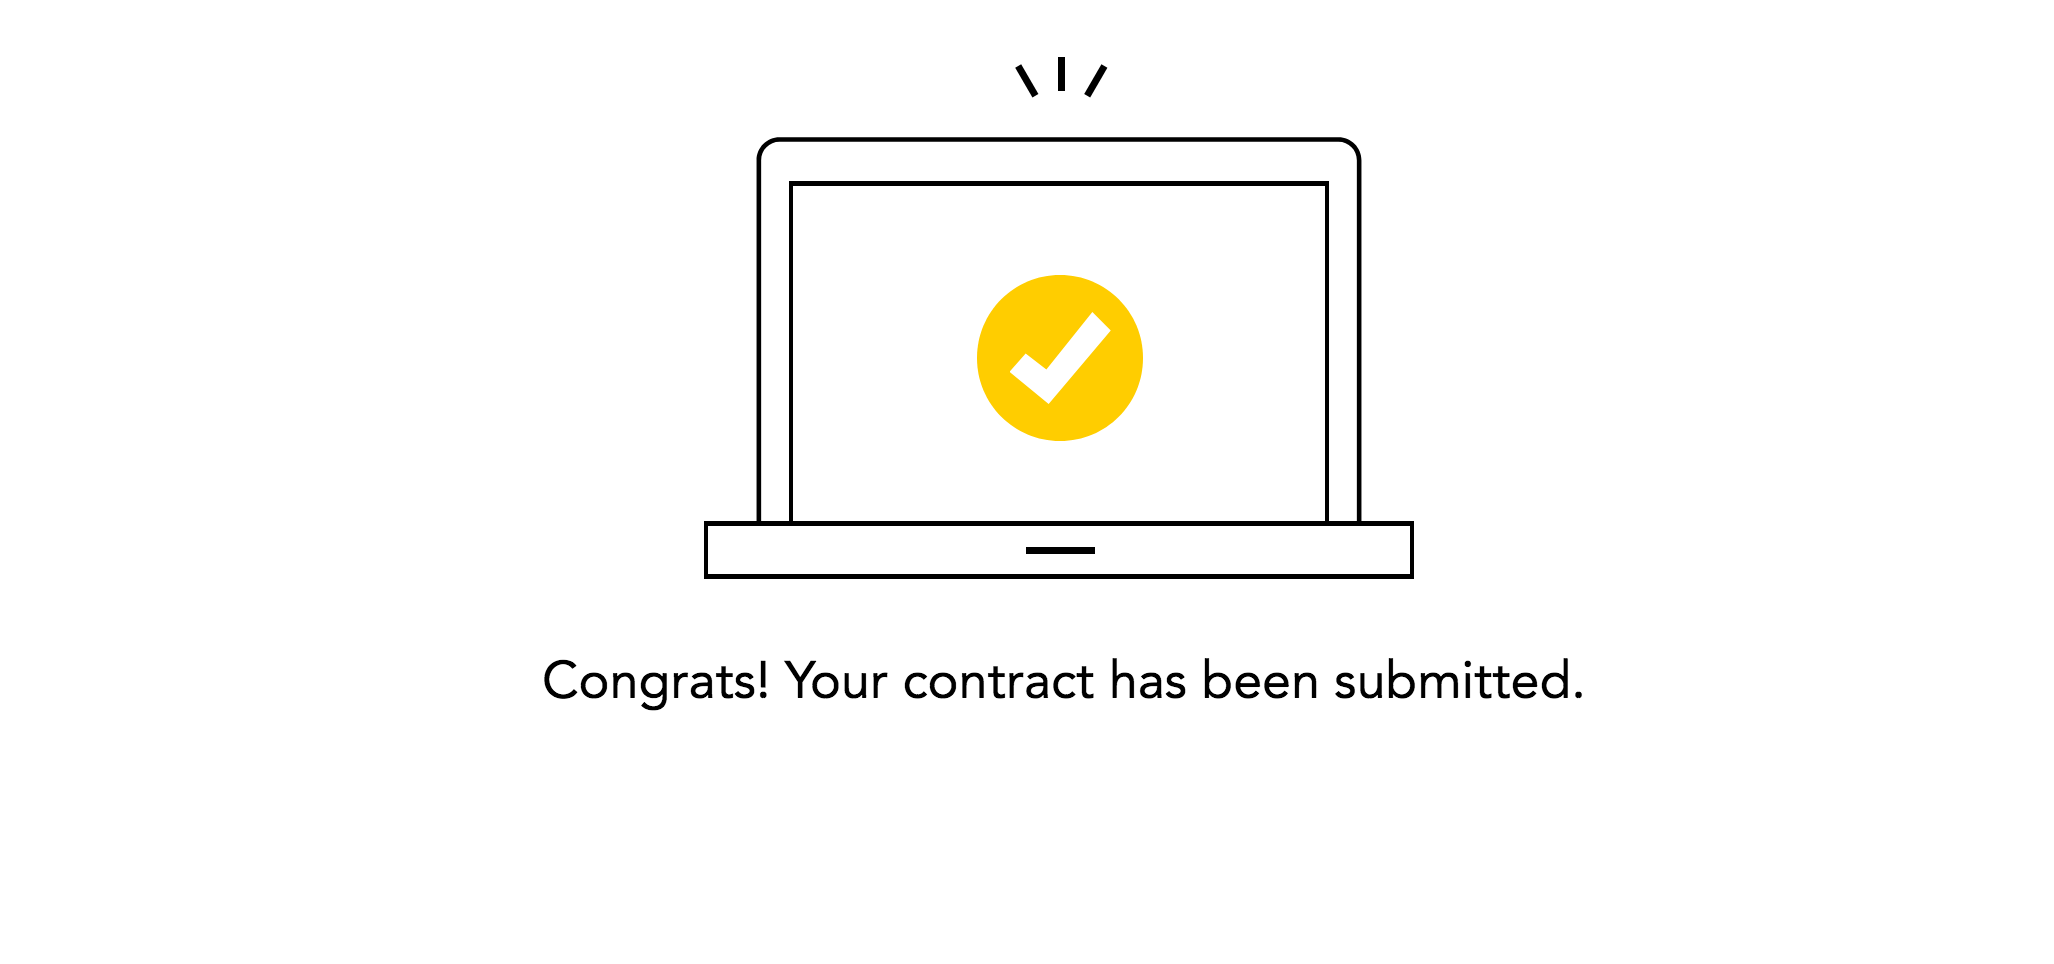
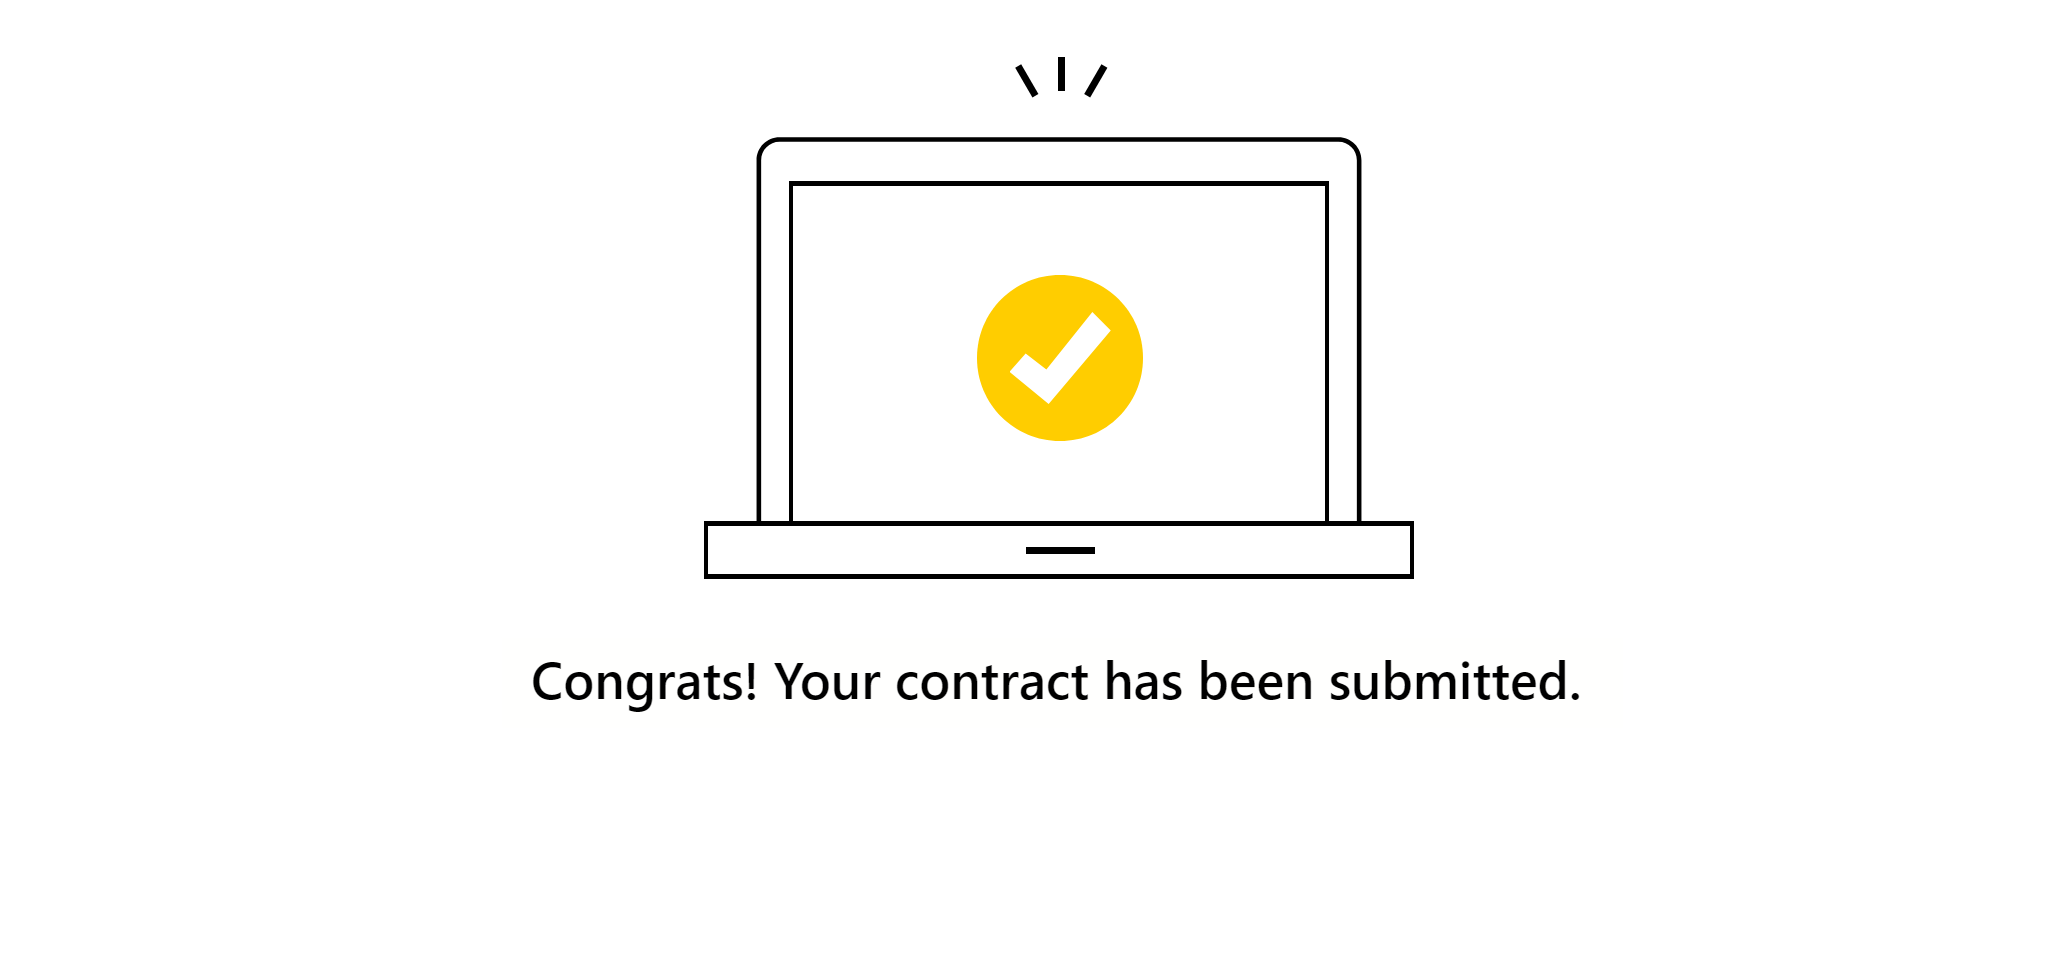
add review submit page

Changed region(s): [[0.2493, 0.6846, 0.779, 0.7469]]

diff --git a/src/components/contract/Contract.jsx b/src/components/contract/Contract.jsx
@@ -64,7 +64,6 @@ class Contract extends Component {
 
     componentDidMount() {
         this._fetchContract();
-        this._fetchNotes();
 
         const { match: { params } } = this.props;
         this.setState({contractId: params.id});
@@ -91,7 +90,7 @@ class Contract extends Component {
                             contract: response,
                             query
                         }
-                    })
+                    }, () => this._fetchNotes())
                 },
                 error => {
                     console.log('contract fetch error : ', error);
@@ -112,8 +111,8 @@ class Contract extends Component {
                         ...prevState,
                         fetchedNotes: response.filter(note => note.contractId === prevState.contractId)
                     }), () => {
-                            if (this.state.contract && this.state.contract.stage === IN_REVIEW) {
-                                this.state.fetchedNotes.forEach(note => {
+                        if (this.state.contract && this.state.contract.stage === IN_REVIEW) {
+                            this.state.fetchedNotes.forEach(note => {
                                 let target = document.getElementsByName(note.sectionId)[0];
                                 if (target) {
                                     target.setAttribute('style', onEnterParagraphStyle)
@@ -138,6 +137,10 @@ class Contract extends Component {
 
     _openSuccessPage = () => {
         this.props.history.push('/success');
+    }
+
+    _openReviewSuccessPage = () => {
+        this.props.history.push('/review-success');
     }
 
     _onInputChange = ({ target }) => {
@@ -207,7 +210,7 @@ class Contract extends Component {
             .then(
                 response => {
                     if (stage === IN_REVIEW) {
-                        this._openSuccessPage();
+                        this._openReviewSuccessPage();
                     } else {
                         this._onBackClick();
                     }
@@ -328,13 +331,17 @@ class Contract extends Component {
     }
 
     _saveNote = (sectionId, note) => {
+        if (!note) {
+            return false;
+        }
+
         const {contractId} = this.state;
         let notes = this.state.notes.filter(note => note.sectionId !== sectionId);
 
         this.setState(prevState => ({
             ...prevState,
             notes: notes.concat({contractId, sectionId, note})
-        }), () => console.log(this.state.notes))
+        }), createNotification('success', 'Note Added Successfully.'))
     }
 
     _onParagraphClick = ({target}) => {

diff --git a/src/routes.js b/src/routes.js
@@ -5,6 +5,7 @@ import ContractManager from './components/contract/ContractManager';
 import CreateContract from './components/contract/CreateContract';
 import Contract from './components/contract/Contract';
 import SuccessSubmit from './components/contract/SuccessSubmit';
+import ReviewSubmit from './components/contract/ReviewSubmit';
 
 class Routes extends Component {
   render() {
@@ -14,6 +15,7 @@ class Routes extends Component {
         <Route path='/create' component={CreateContract} />
         <Route path='/contract/:id' component={Contract} />
         <Route path='/success' component={SuccessSubmit} />
+        <Route path='/review-success' component={ReviewSubmit} />
         <Redirect to='/' />
       </Switch>
     );

diff --git a/src/components/contract/ReviewSubmit.jsx b/src/components/contract/ReviewSubmit.jsx
@@ -1,0 +1,18 @@
+import React, { Component } from 'react';
+
+class ReviewSubmit extends Component {
+    constructor(props) {
+        super(props);
+        this.state = {}
+    }
+
+    render() {
+        return (
+            <div style={{backgroundColor: 'white', width: '100%', height: '100%'}}>
+                <img src={require('../../constants/review.png')} style={{width: '100%', height: '100%'}}/>
+            </div>
+        );
+    }
+}
+
+export default ReviewSubmit;
